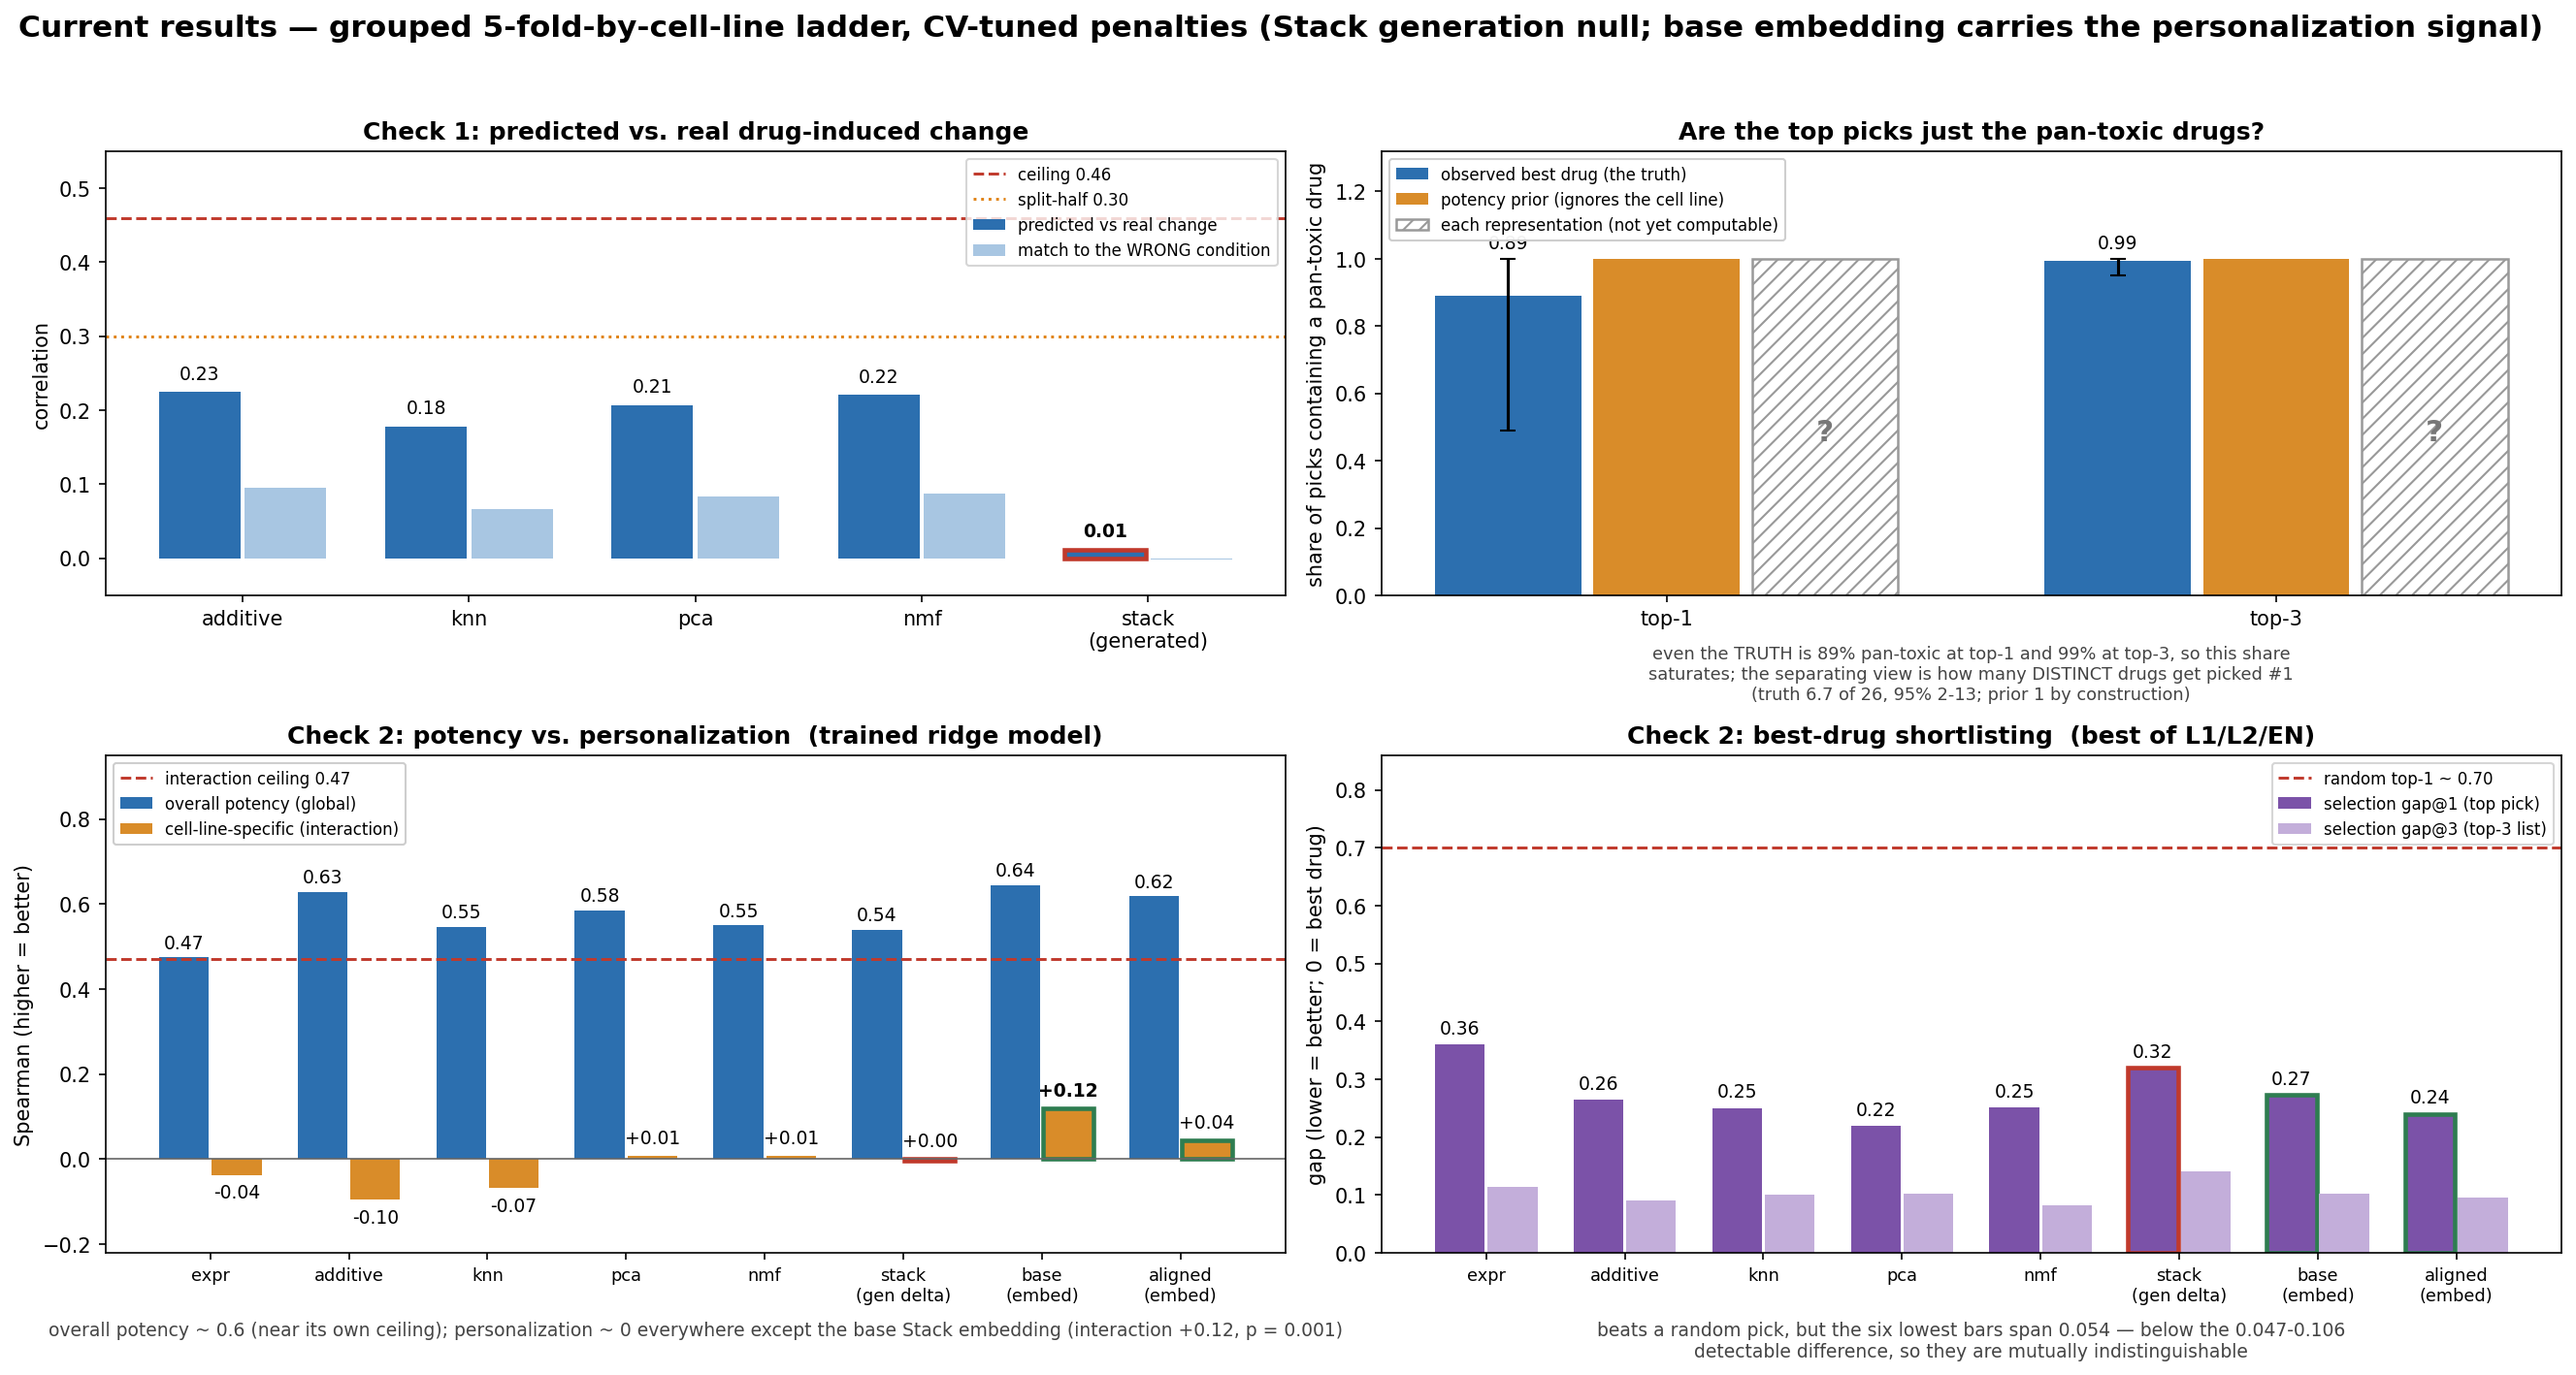
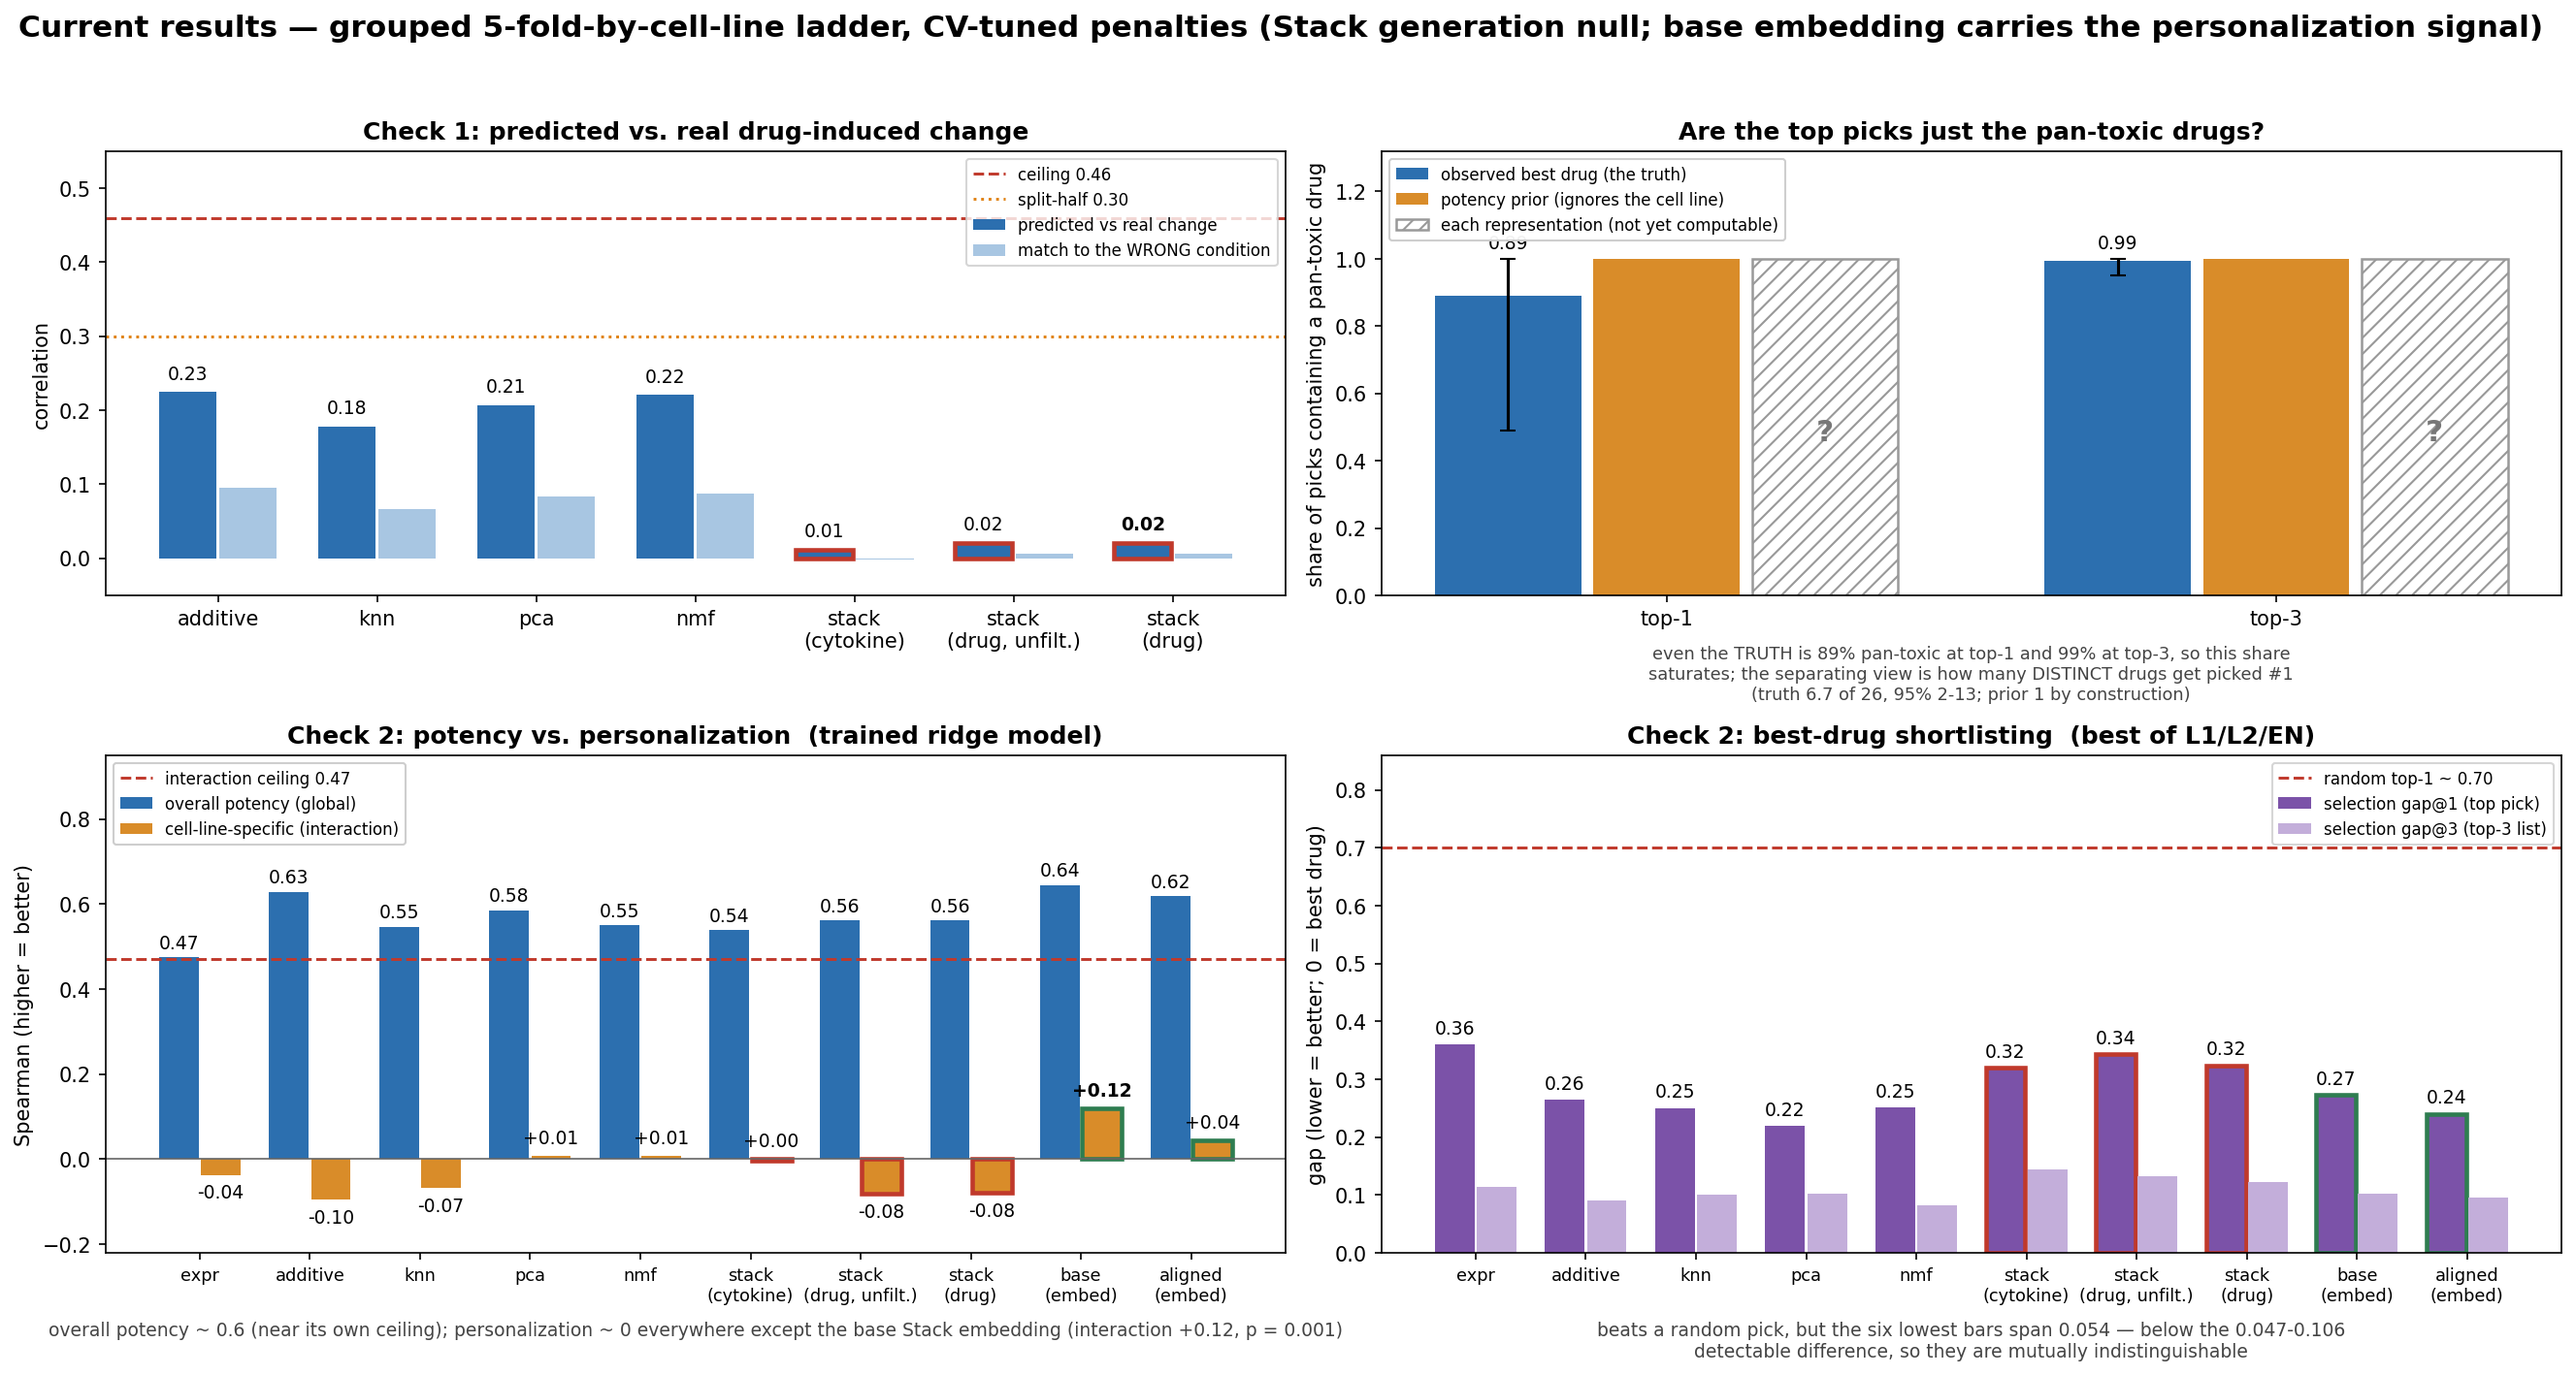
docs: add drug-aligned Check-1/Check-2 rows, regenerate the harness-overview deck

diff --git a/scripts/update_harness_overview_slides.py b/scripts/update_harness_overview_slides.py
@@ -39,7 +39,9 @@ CHECK1_ROWS = [
     ("nmf", "0.221", "0.088", "0.912", "1600", None),
     ("pca", "0.207", "0.083", "0.896", "1600", None),
     ("knn", "0.178", "0.067", "0.904", "1600", None),
-    ("stack (generated)", "0.012", "-0.002", "0.644", "1568", "red"),
+    ("stack (gen, cytokine-aligned)", "0.012", "-0.002", "0.644", "1568", "red"),
+    ("stack (gen, drug-aligned, unfiltered)", "0.021", "0.006", "0.665", "1568", "red"),
+    ("stack (gen, drug-aligned, leak-excluded)", "0.021", "0.006", "0.665", "1563", "red"),
 ]
 CHECK1_TAKEAWAY = (
     "Stack generation is null: r = 0.012, off-diagonal ~ 0, specificity rank 0.64 (random ~ 0.5) — "
@@ -70,8 +72,12 @@ SIG_ROWS = [
     ("pca", "proliferation", "0.123", "-0.010", "0.049", "0.585", "0.535", "0.848", None),
     ("nmf", "hallmark", "0.077", "-0.068", "-0.072", "0.855", "0.579", "0.981", None),
     ("nmf", "proliferation", "0.094", "-0.016", "-0.023", "0.585", "0.549", "0.882", None),
-    ("stack (gen)", "hallmark", "-0.128", "-0.029", "-0.089", "0.742", "0.580", "0.798", "red"),
-    ("stack (gen)", "proliferation", "-0.150", "-0.014", "-0.086", "0.849", "0.674", "0.568", "red"),
+    ("stack (gen, cytokine-aligned)", "hallmark", "-0.128", "-0.030", "-0.090", "0.733", "0.581", "0.809", "red"),
+    ("stack (gen, cytokine-aligned)", "proliferation", "-0.150", "-0.014", "-0.090", "0.849", "0.674", "0.560", "red"),
+    ("stack (gen, drug-aligned, unfiltered)", "hallmark", "-0.077", "0.019", "-0.084", "0.687", "0.532", "0.322", "red"),
+    ("stack (gen, drug-aligned, unfiltered)", "proliferation", "-0.038", "0.081", "-0.057", "0.317", "0.209", "0.009", "red"),
+    ("stack (gen, drug-aligned, leak-excluded)", "hallmark", "-0.074", "0.021", "-0.079", "0.687", "0.532", "0.296", "red"),
+    ("stack (gen, drug-aligned, leak-excluded)", "proliferation", "-0.035", "0.082", "-0.057", "0.317", "0.208", "0.004", "red"),
 ]
 
 # --- Check 2, trained penalized ladder ----------------------------------------------------
@@ -91,7 +97,9 @@ LADDER_ROWS = [
     ("knn", "0.547 / -0.068", "0.617 / -0.171", "0.618 / -0.168", "-0.067", "0.975", "0.250", "0.101", None),
     ("pca", "0.585 / +0.007", "0.634 / -0.108", "0.634 / -0.103", "+0.018", "0.498", "0.219", "0.102", None),
     ("nmf", "0.550 / +0.007", "0.610 / -0.198", "0.614 / -0.178", "-0.101", "0.596", "0.251", "0.082", None),
-    ("stack (gen delta)", "0.540 / -0.003", "0.567 / -0.194", "0.571 / -0.187", "-0.065", "0.631", "0.320", "0.140", "red"),
+    ("stack (gen, cytokine-aligned)", "0.539 / -0.003", "0.568 / -0.182", "0.574 / -0.164", "-0.071", "0.625", "0.320", "0.144", "red"),
+    ("stack (gen, drug-aligned, unfiltered)", "0.561 / -0.082", "0.575 / -0.145", "0.570 / -0.147", "-0.135", "0.987", "0.343", "0.133", "red"),
+    ("stack (gen, drug-aligned, leak-excluded)", "0.561 / -0.079", "0.572 / -0.134", "0.562 / -0.123", "-0.140", "0.987", "0.324", "0.122", "red"),
     ("base (embed)", "0.644 / +0.119", "0.612 / -0.166", "0.613 / -0.170", "+0.200", "0.001", "0.273", "0.102", "green"),
     ("aligned (embed)", "0.618 / +0.045", "0.623 / -0.097", "0.625 / -0.103", "+0.059", "0.175", "0.240", "0.096", None),
 ]

diff --git a/scripts/plot_generation_eval_summary.py b/scripts/plot_generation_eval_summary.py
@@ -26,7 +26,9 @@ CHECK1 = {
     "knn": (0.178, 0.067),
     "pca": (0.207, 0.083),
     "nmf": (0.221, 0.088),
-    "stack\n(generated)": (0.012, -0.002),
+    "stack\n(cytokine)": (0.012, -0.002),
+    "stack\n(drug, unfilt.)": (0.021, 0.006),
+    "stack\n(drug)": (0.021, 0.006),
 }
 DELTA_CEILING, DELTA_SPLIT_HALF = 0.46, 0.30
 
@@ -39,7 +41,9 @@ CHECK2_RIDGE = {
     "knn": (0.547, -0.068),
     "pca": (0.585, 0.007),
     "nmf": (0.550, 0.007),
-    "stack\n(gen delta)": (0.540, -0.003),
+    "stack\n(cytokine)": (0.539, -0.003),
+    "stack\n(drug, unfilt.)": (0.561, -0.082),
+    "stack\n(drug)": (0.561, -0.079),
     "base\n(embed)": (0.644, 0.119),
     "aligned\n(embed)": (0.618, 0.045),
 }
@@ -50,7 +54,9 @@ SEL_GAP = {
     "knn": (0.250, 0.101),
     "pca": (0.219, 0.102),
     "nmf": (0.251, 0.082),
-    "stack\n(gen delta)": (0.320, 0.140),
+    "stack\n(cytokine)": (0.320, 0.144),
+    "stack\n(drug, unfilt.)": (0.343, 0.133),
+    "stack\n(drug)": (0.324, 0.122),
     "base\n(embed)": (0.273, 0.102),
     "aligned\n(embed)": (0.240, 0.096),
 }

diff --git a/docs/tahoe_generation_results.md b/docs/tahoe_generation_results.md
@@ -29,7 +29,9 @@ rebuilt leave-one-line-out), and `stack` (Stack-Large-**Aligned** generated delt
 | nmf | 0.221 | 0.088 | 0.912 | 1600 |
 | pca | 0.207 | 0.083 | 0.896 | 1600 |
 | knn | 0.178 | 0.067 | 0.904 | 1600 |
-| **stack (gen)** | **0.012** | −0.002 | 0.644 | 1568 |
+| **stack (gen, cytokine-aligned)** | **0.012** | −0.002 | 0.644 | 1568 |
+| stack (gen, drug-aligned, unfiltered) | 0.021 | 0.006 | 0.665 | 1568 |
+| stack (gen, drug-aligned, leak-excluded) | 0.021 | 0.006 | 0.665 | 1563 |
 
 Ceiling (delta reproducibility, Tahoe plate split-half): **0.30 raw / 0.46 Spearman-Brown.**
 
@@ -38,6 +40,11 @@ Ceiling (delta reproducibility, Tahoe plate split-half): **0.30 raw / 0.46 Spear
 additive floor (0.225) and the 0.46 ceiling. The FM's generated delta carries no real signal
 about the perturbation. (Baselines top out ~0.18–0.22; the *line-specific* part of the delta
 is not recovered by any of them either — `additive`, which ignores the line, is the best.)
+Drug alignment (fine-tuning the generation head on sci-Plex instead of cytokines) roughly
+doubles Stack's Check-1 correlation vs. the cytokine-aligned checkpoint (0.012 → 0.021), but
+both stay far below the additive floor (0.225) and the 0.46 ceiling, and leakage filtering does
+not change the drug-aligned number (0.021 unfiltered and leak-excluded alike;
+doubly_exposed_frac=0.003 on the ~5 doubly-exposed A549/drug pairs).
 
 ## Gate — Hallmark readout on the real delta vs random gene sets
 
@@ -79,13 +86,47 @@ aligned = cytokine-aligned checkpoint embedding, encoder-stripped):
 | knn | 0.547 / −0.068 | 0.617 / −0.171 | 0.618 / −0.168 | 0.250 | 0.101 |
 | pca | 0.585 / +0.007 | 0.634 / −0.108 | 0.634 / −0.103 | 0.219 | 0.102 |
 | nmf | 0.550 / +0.007 | 0.610 / −0.198 | 0.614 / −0.178 | 0.251 | 0.082 |
-| stack (gen delta) | 0.540 / −0.003 | 0.567 / −0.194 | 0.571 / −0.187 | 0.320 | 0.140 |
+| stack (gen, cytokine-aligned) | 0.539 / −0.003 | 0.568 / −0.182 | 0.574 / −0.164 | 0.320 | 0.144 |
+| stack (gen, drug-aligned, unfiltered) | 0.561 / −0.082 | 0.575 / −0.145 | 0.570 / −0.147 | 0.343 | 0.133 |
+| stack (gen, drug-aligned, leak-excluded) | 0.561 / −0.079 | 0.572 / −0.134 | 0.562 / −0.123 | 0.324 | 0.122 |
 | **base (embed)** | **0.644 / +0.119** | 0.612 / −0.166 | 0.613 / −0.170 | 0.273 | 0.102 |
 | aligned (embed) | 0.618 / +0.045 | 0.623 / −0.097 | 0.625 / −0.103 | 0.240 | 0.096 |
 
-Through fixed signature readouts the Stack generated delta is *negative* (hallmark −0.128,
-proliferation −0.150) — consistent with its Check-1 null; the other deltas sit at global
-~0.08–0.12.
+Leakage filtering changes essentially nothing here either: the drug-aligned row moves by
+≤0.02 on every ladder metric after excluding the doubly-exposed A549/drug pairs. (Its own
+leakage-filter print reports `doubly_exposed_frac=0.000`, not the ~0.003 Check 1 reports on the
+same declared corpus — not a discrepancy: `filter_leakage` runs on the *full* 141,103-row GDSC2
+`design` frame before it is restricted to the ~1,313 Tahoe-drug-overlapping pairs the table
+scores, so the same 5 doubly-exposed pairs Check 1 finds land on a ~90x larger denominator and
+round to 0.000 at 3 decimals.)
+
+**Fixed-signature readouts** (Hallmark gene sets scored directly on each delta source — no
+training — full per-source table, all three Stack checkpoint variants):
+
+| source | method | global | interaction | per-drug | sel. gap@1 | sel. gap@3 | p_label |
+|---|---|---|---|---|---|---|---|
+| additive | hallmark | 0.088 | −0.063 | −0.033 | 0.855 | 0.579 | 0.979 |
+| additive | proliferation | 0.097 | −0.016 | −0.035 | 0.585 | 0.547 | 0.884 |
+| knn | hallmark | 0.080 | 0.022 | −0.008 | 0.788 | 0.587 | 0.219 |
+| knn | proliferation | 0.092 | 0.015 | 0.063 | 0.628 | 0.415 | 0.358 |
+| pca | hallmark | 0.089 | −0.075 | 0.053 | 0.855 | 0.579 | 0.985 |
+| pca | proliferation | 0.123 | −0.010 | 0.049 | 0.585 | 0.535 | 0.848 |
+| nmf | hallmark | 0.077 | −0.068 | −0.072 | 0.855 | 0.579 | 0.981 |
+| nmf | proliferation | 0.094 | −0.016 | −0.023 | 0.585 | 0.549 | 0.882 |
+| stack (gen, cytokine-aligned) | hallmark | −0.128 | −0.030 | −0.090 | 0.733 | 0.581 | 0.809 |
+| stack (gen, cytokine-aligned) | proliferation | −0.150 | −0.014 | −0.090 | 0.849 | 0.674 | 0.560 |
+| stack (gen, drug-aligned, unfiltered) | hallmark | −0.077 | 0.019 | −0.084 | 0.687 | 0.532 | 0.322 |
+| stack (gen, drug-aligned, unfiltered) | proliferation | −0.038 | 0.081 | −0.057 | 0.317 | 0.209 | 0.009 |
+| stack (gen, drug-aligned, leak-excluded) | hallmark | −0.074 | 0.021 | −0.079 | 0.687 | 0.532 | 0.296 |
+| stack (gen, drug-aligned, leak-excluded) | proliferation | −0.035 | 0.082 | −0.057 | 0.317 | 0.208 | 0.004 |
+
+Through the fixed readouts the cytokine-aligned Stack delta is *negative* on both methods
+(hallmark −0.128, proliferation −0.150) — consistent with its Check-1 null. The drug-aligned
+delta's global scores stay negative but smaller in magnitude, and — unlike the ladder's trained
+fits — its *interaction* term is slightly positive (proliferation +0.08, p_label 0.004–0.009);
+leakage filtering moves it only marginally (interaction 0.019→0.021 hallmark, 0.081→0.082
+proliferation), the same near-independence Check 1 found. The other (non-Stack) deltas sit at
+global ~0.08–0.12 regardless of checkpoint.
 
 Per-drug ranking and label-permutation significance — the two columns the ladder omits, for the
 ridge (L2) fits that carry the embedding signal:
